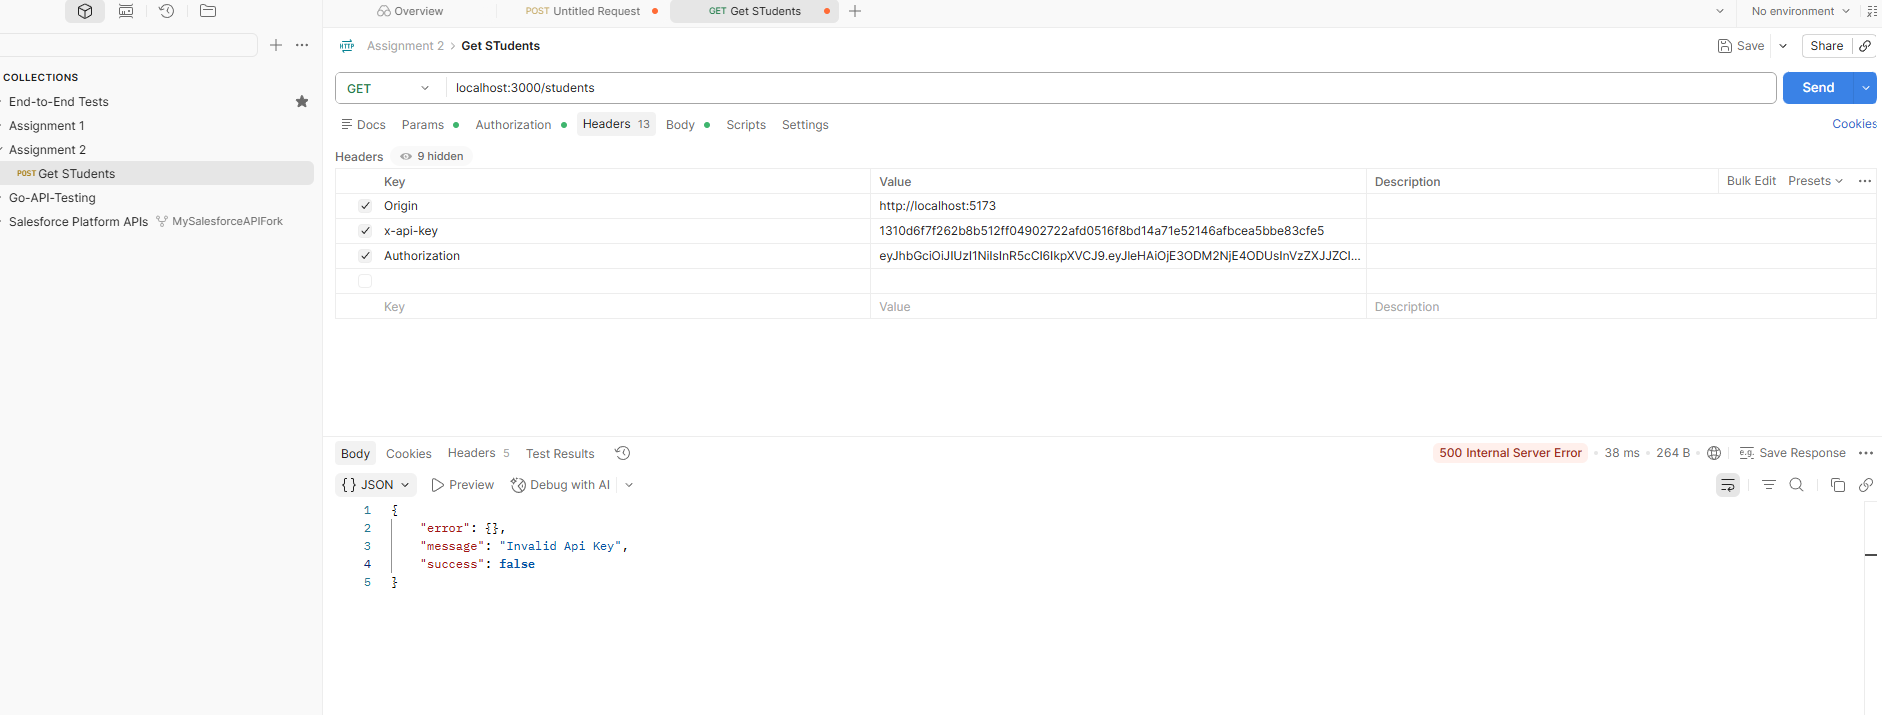
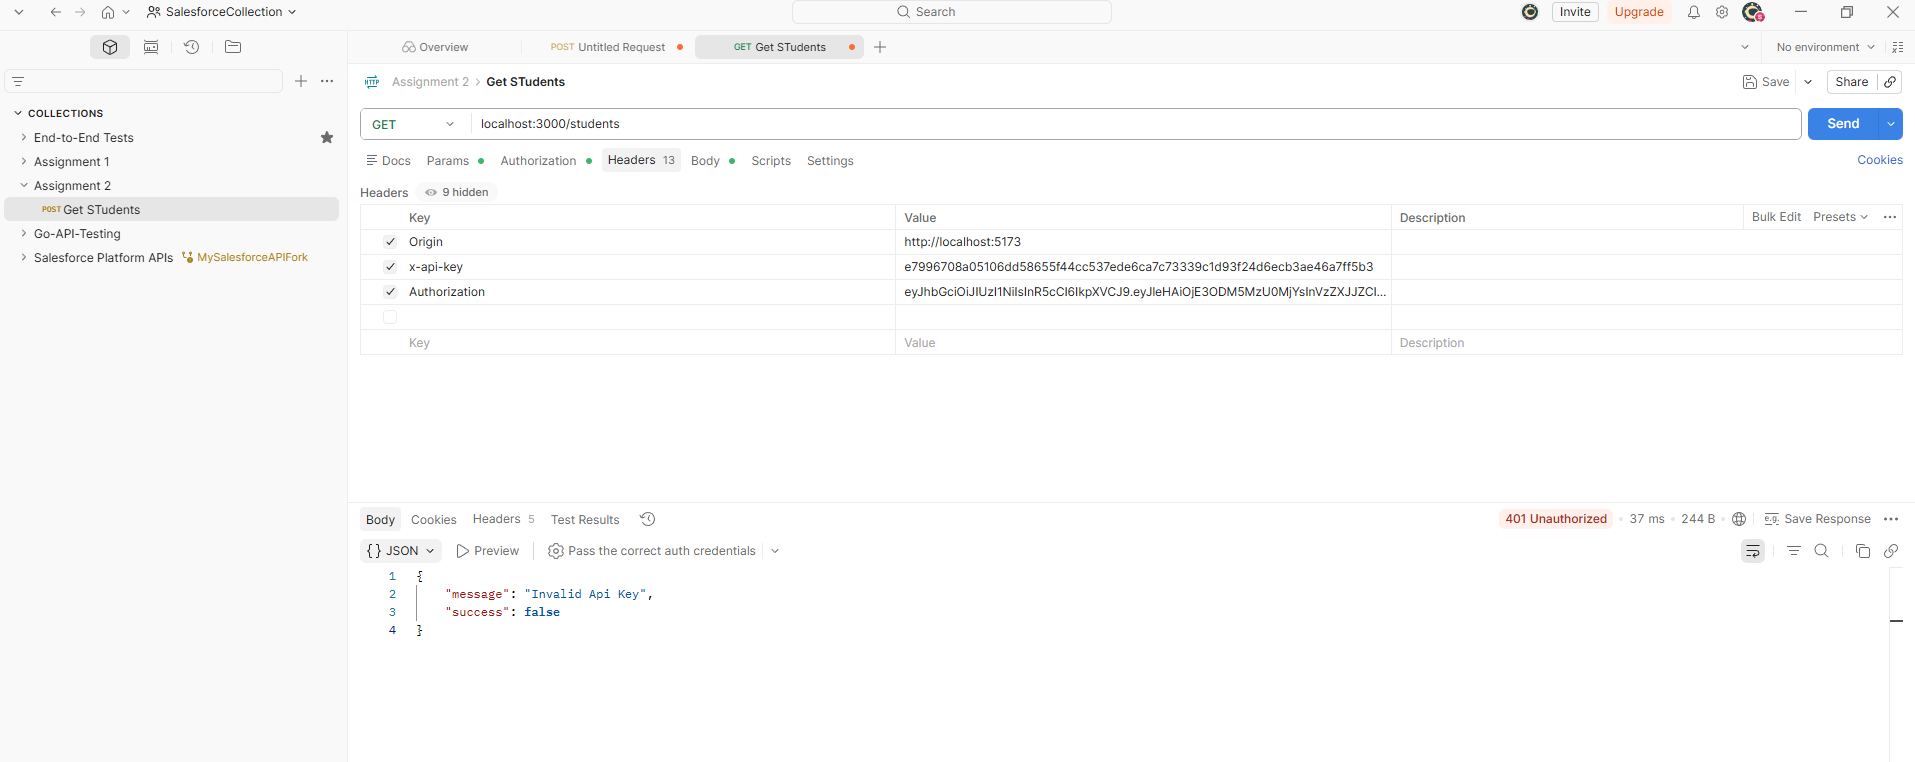
Updated image

diff --git a/README.md b/README.md
@@ -14,8 +14,7 @@ VALID X-API-KEY & Authorization Token
 
 Invalid API KEYS
 ![alt text](/images/MissingAPIKey.png)
-![alt text](/images/InvalidApiKey.png)
-
+![alt text](/images/InvalidAPIKey.png)
 INVALID Authorization TOKEN
 ![alt text](/images/MissingAuthorizationToken.png)
 ![alt text](/images/InvalidAuthorizationToken.png)
